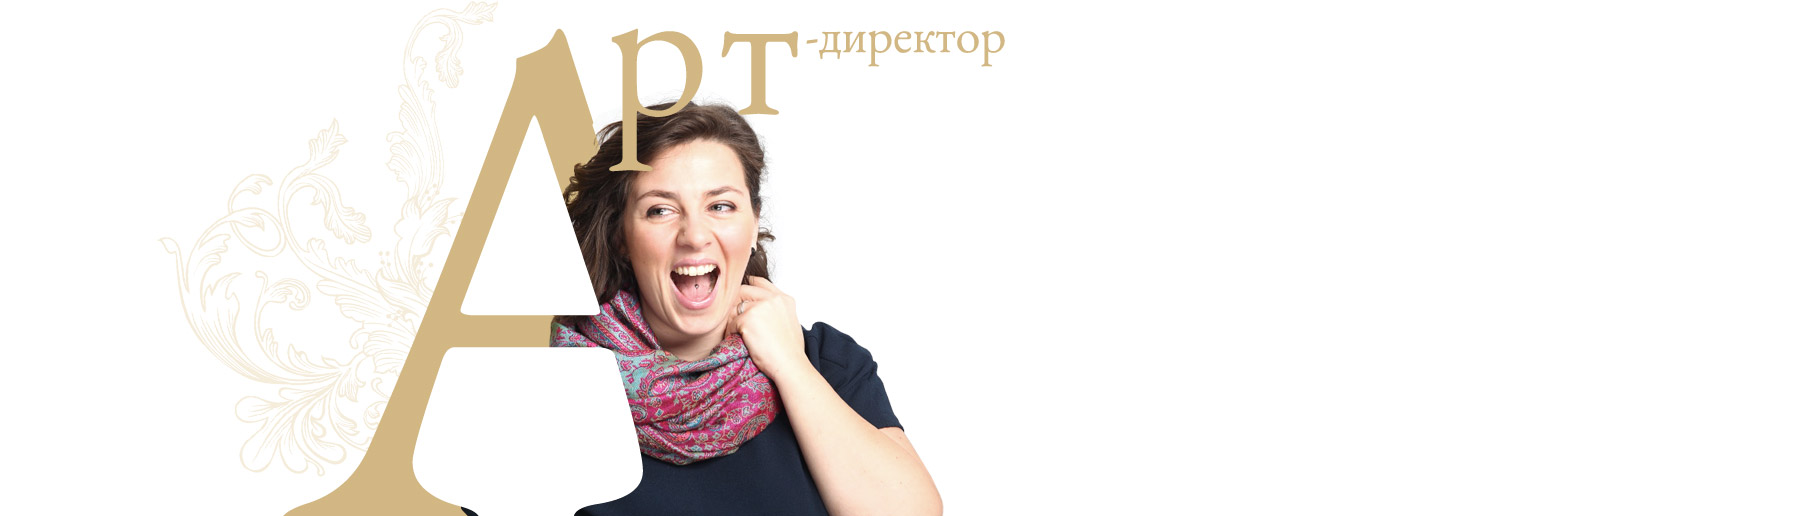
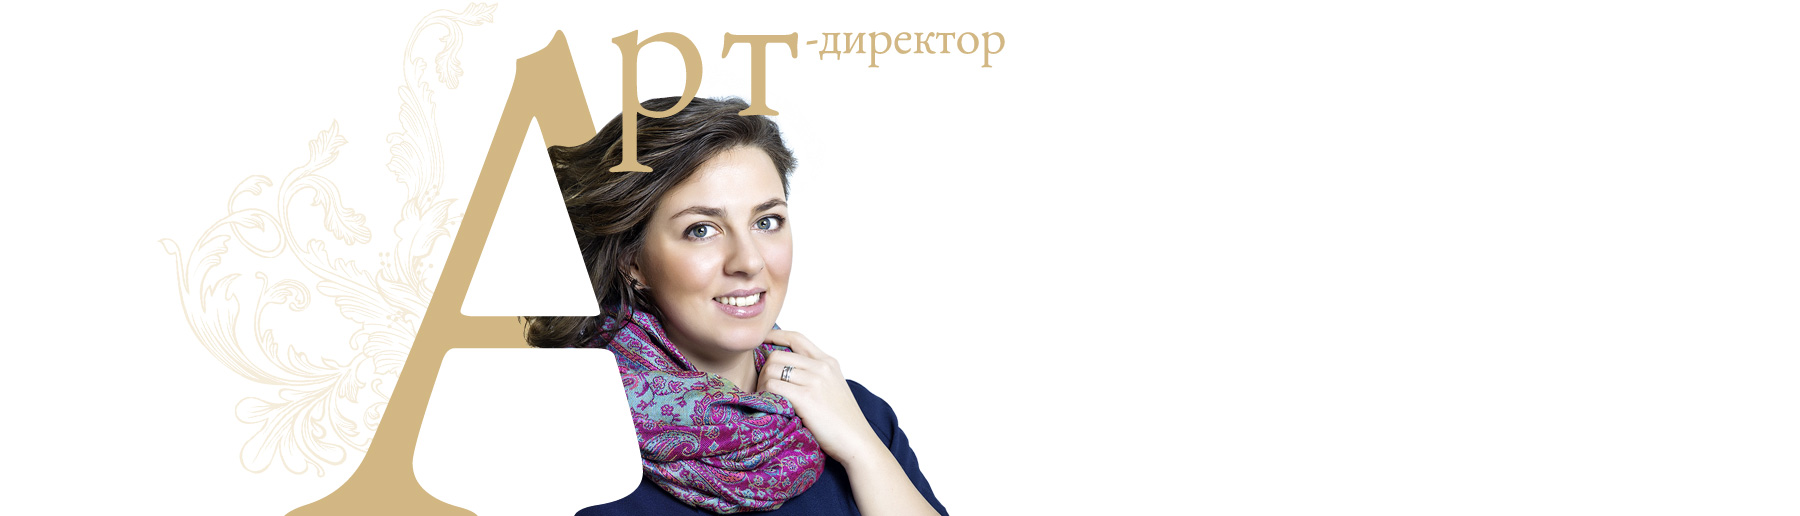
Ver. 1.4
Popups fixed. Director photo changed

diff --git a/index.html b/index.html
@@ -656,8 +656,7 @@
 														<div class="ttl-price"><span><b class="price">1</b> млн. руб.</span></div>
 														<div class="ttl-bullet"></div>
 													</div>
-													<p>На время организации свадьбы — мы Ваши лучшие друзья, мы ваши родственник, мы ваши подружки невесты, мы ваши юристы и адвокаты, мы ваши доверенные лица по всем вопросам!</p>
-													<p>Мы ваши подружки невесты, мы ваши юристы и адвокаты, мы ваши доверенные лица по всем вопросам! На время организации свадьбы — мы Ваши лучшие друзья.</p> 
+													<p>Организация свадьбы в Москве и Подмосковье.<br> Разработка концепции. Тайминг.<br> Место проведение: ресторан или Шатер.<br> Номер в отеле для сборов невесты (Стандарт, полулюкс).<br> Стилист.<br> Транспорт.<br> Ведущий.<br> Фотограф (цвето-коррекция всех фото. Художественная ретушь лучших до 10 шт., фотокнига).<br> Видеограф (фильм на 20-30 минут).<br> Шоу программа.<br> Кавер группа.<br> Флористическое оформление.<br> Элементы декора.<br> Техническое обеспечение.<br> Съемка фото love story. Москва и Подмосковье.<br> Банкет со среднем счетом на 1 персону 4000 руб.<br> Торт по индивидуальному заказу.</p>
 												</div>
 											</div>
                     </div>
@@ -676,8 +675,7 @@
 														<div class="ttl-price"><span><b class="price">1 - 5</b> млн. руб.</span></div>
 														<div class="ttl-bullet"></div>
 													</div>
-													<p>На время организации свадьбы — мы Ваши лучшие друзья, мы ваши родственник, мы ваши подружки невесты, мы ваши юристы и адвокаты, мы ваши доверенные лица по всем вопросам!</p>
-													<p>Мы ваши подружки невесты, мы ваши юристы и адвокаты, мы ваши доверенные лица по всем вопросам! На время организации свадьбы — мы Ваши лучшие друзья.</p> 
+													<p>Организация свадьбы в Москве, Санкт - Петербурге или Европе.<br> Разработка концепции. Сценарий.<br> Место проведение: Ресторан или Шатер.<br> Номер в отеле для сборов невесты (люкс, премиум). Оформление номера.<br> Стилист премиум класса.<br> Транспорт.<br> Ведущий (теле- или радио- ведущий).<br> 2 Фотографа (цвето-коррекция всех фото. Художественная ретушь лучших до 25 шт, фотокнига до 10 разворотов).<br> 2 Видеографа (фильм от 30 минут. Клип 4-5 минут).<br> Шоу программа.<br> Кавер группа.<br> Флористическое оформление.<br> Декоративное оформление.<br> Организация фото зоны.<br> Техническое обеспечение (возможность установить концертный свет, звук, экраны).<br> Съемка фото и видео love story. Москва. Европа.<br> Услуги шопера.<br> Банкет со среднем счетом на 1 персону от 5000 -7000 руб.<br> Торт по индивидуальному эскизу у лучших кондитеров Москвы.</p>
 												</div>
 											</div>
                     </div>
@@ -696,8 +694,7 @@
 														<div class="ttl-price"><span><b class="price">5</b> млн. руб.</span></div>
 														<div class="ttl-bullet"></div>
 													</div>
-													<p>На время организации свадьбы — мы Ваши лучшие друзья, мы ваши родственник, мы ваши подружки невесты, мы ваши юристы и адвокаты, мы ваши доверенные лица по всем вопросам!</p>
-													<p>Мы ваши подружки невесты, мы ваши юристы и адвокаты, мы ваши доверенные лица по всем вопросам! На время организации свадьбы — мы Ваши лучшие друзья.</p> 
+													<p>Организация свадьбы в Москве, Санкт - Петербурге, Европе или на Островах.<br> Разработка концепции (возможно привлечь к написанию сценаристов, актеров). Сценарий.<br> Место проведения: Ресторан, шатер или загородный отель.<br> Номер в отеле для сборов невесты (президентский люкс). Оформление номера.<br> Стилист VIP уровня.<br> Любой транспорт. Услуга трезвый водитель.<br> Ведущий (возможно пригласить звездного ведущего, теле- или радио ведущего).<br> От 2 Фотографов с ассистентами (возможно пригласить фотографа из Европы, Англии, Америки. Цвето-коррекция всех фото. Художественная ретушь лучших до 50 шт. Фотокнига в подарок).<br> От 2 Видеографов (Фильм от 45 мин., клип 4-5 мин., Возможность сделать клип уже к концу вечера и показать гостям, как все начиналось).<br> Шоу программа(2-3 оригинальных номера, возможно пригласить участников известных телешоу).<br> Кавер группа (возможно пригласить со звездными солистами).<br> Флористическое и декоративное оформление (возможно пригласить ведущих декораторов Москвы и Европы).<br> Организация фото зоны (с индивидуально разработанными декорациями).<br> Техническое обеспечение (возможность установить концертный свет, звук, экраны, спецэффекты, он-лайн транслирование).<br> Съемка фото и видео love story. Съемки по всему миру (Написание сценария для сьемки).<br> Банкет со среднем счетом на 1 персону от 10 000 руб.<br> Эксклюзивный торт.<br> Номера в отеле для гостей.<br> Услуги стилиста для гостей.<br> Услуги персонального шопера по всему миру.<br> Подбор винной карты сомелье.<br> Размещение фото со свадьбы в журнале.</p>
 												</div>
 											</div>
                     </div>

diff --git a/style.css b/style.css
@@ -2399,6 +2399,9 @@ color: #C9AF7C;
 	width: 460px;
 	margin:20px 0 0 0;
 	left:-113px;
+	-webkit-box-shadow:0 0 30px 0 rgba(0,0,0,.2);
+	-moz-box-shadow:0 0 30px 0 rgba(0,0,0,.2);
+	box-shadow:0 0 30px 0 rgba(0,0,0,.2);
 }
 
 .pros-tooltip .tooltip-content {
@@ -2408,16 +2411,32 @@ color: #C9AF7C;
 
 .budget-tooltip {
   border-color: #7cded4;
-	left: -20px;
+	left: -195px;
 	top: -40px;
-	width: 320px;
+	width: 670px;
+	font-size:13px;
+	line-height:16px;
+}
+
+.budget-tooltip .ttl {
+  line-height:24px;
+}
+
+.budget-item:first-child .budget-tooltip {
+  left:-20px;
+}
+
+.budget-item:last-child .budget-tooltip {
+  right:-20px;
+	left:auto;
 }
 
 .budget-tooltip .tooltip-content {
   padding:21px 22px 22px 22px;
 }
 
-.pros-tooltip p {
+.pros-tooltip p,
+.budget-tooltip p {
   margin:0 0 10px 0;
 }
 
